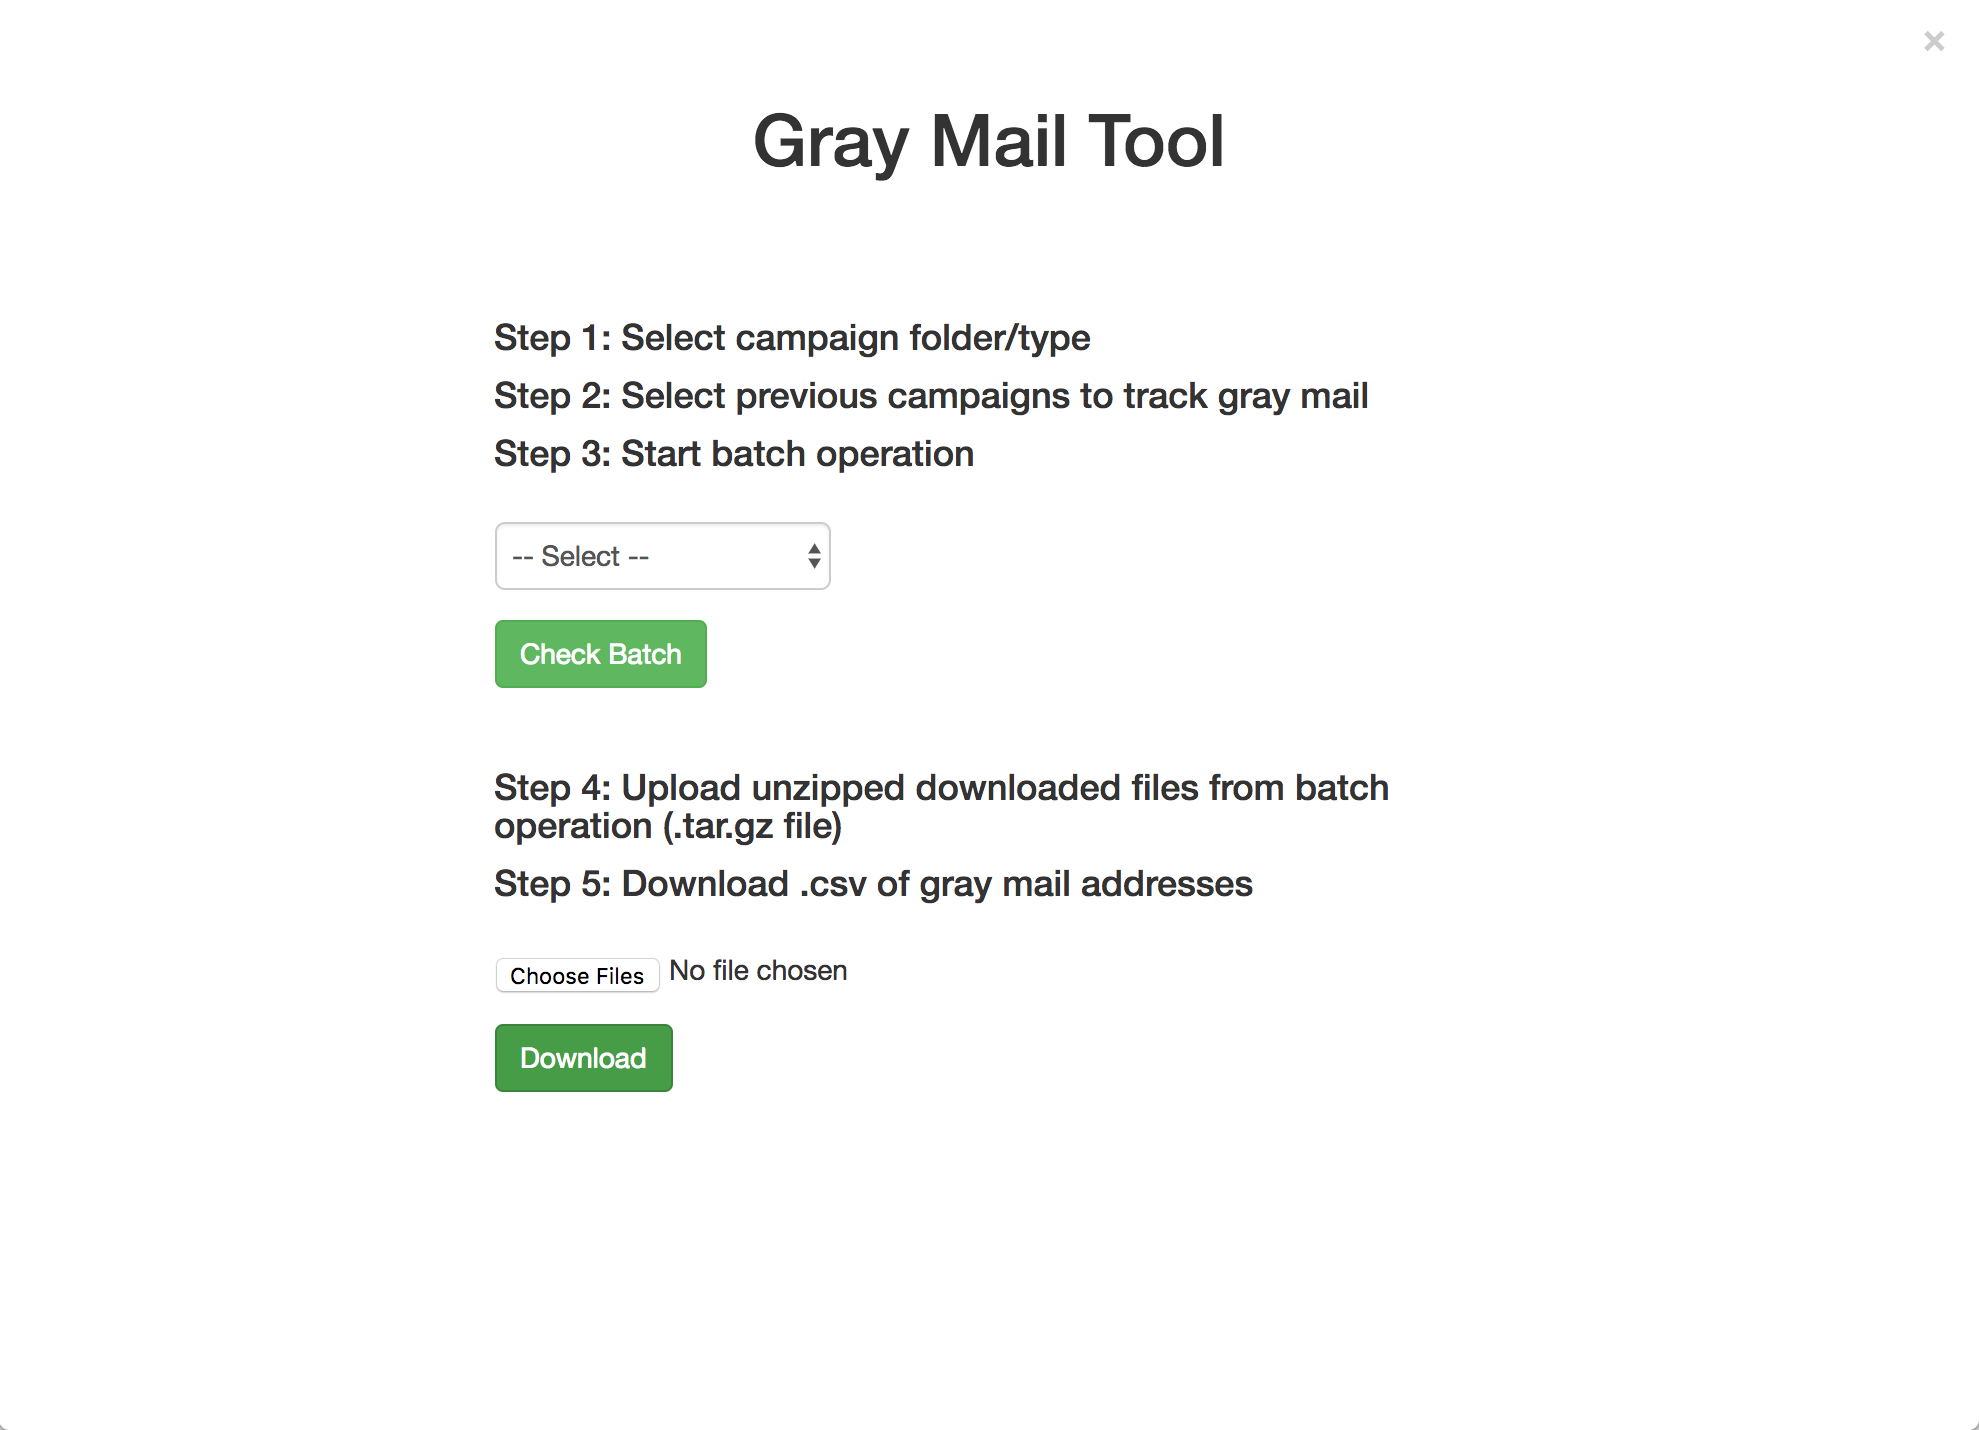
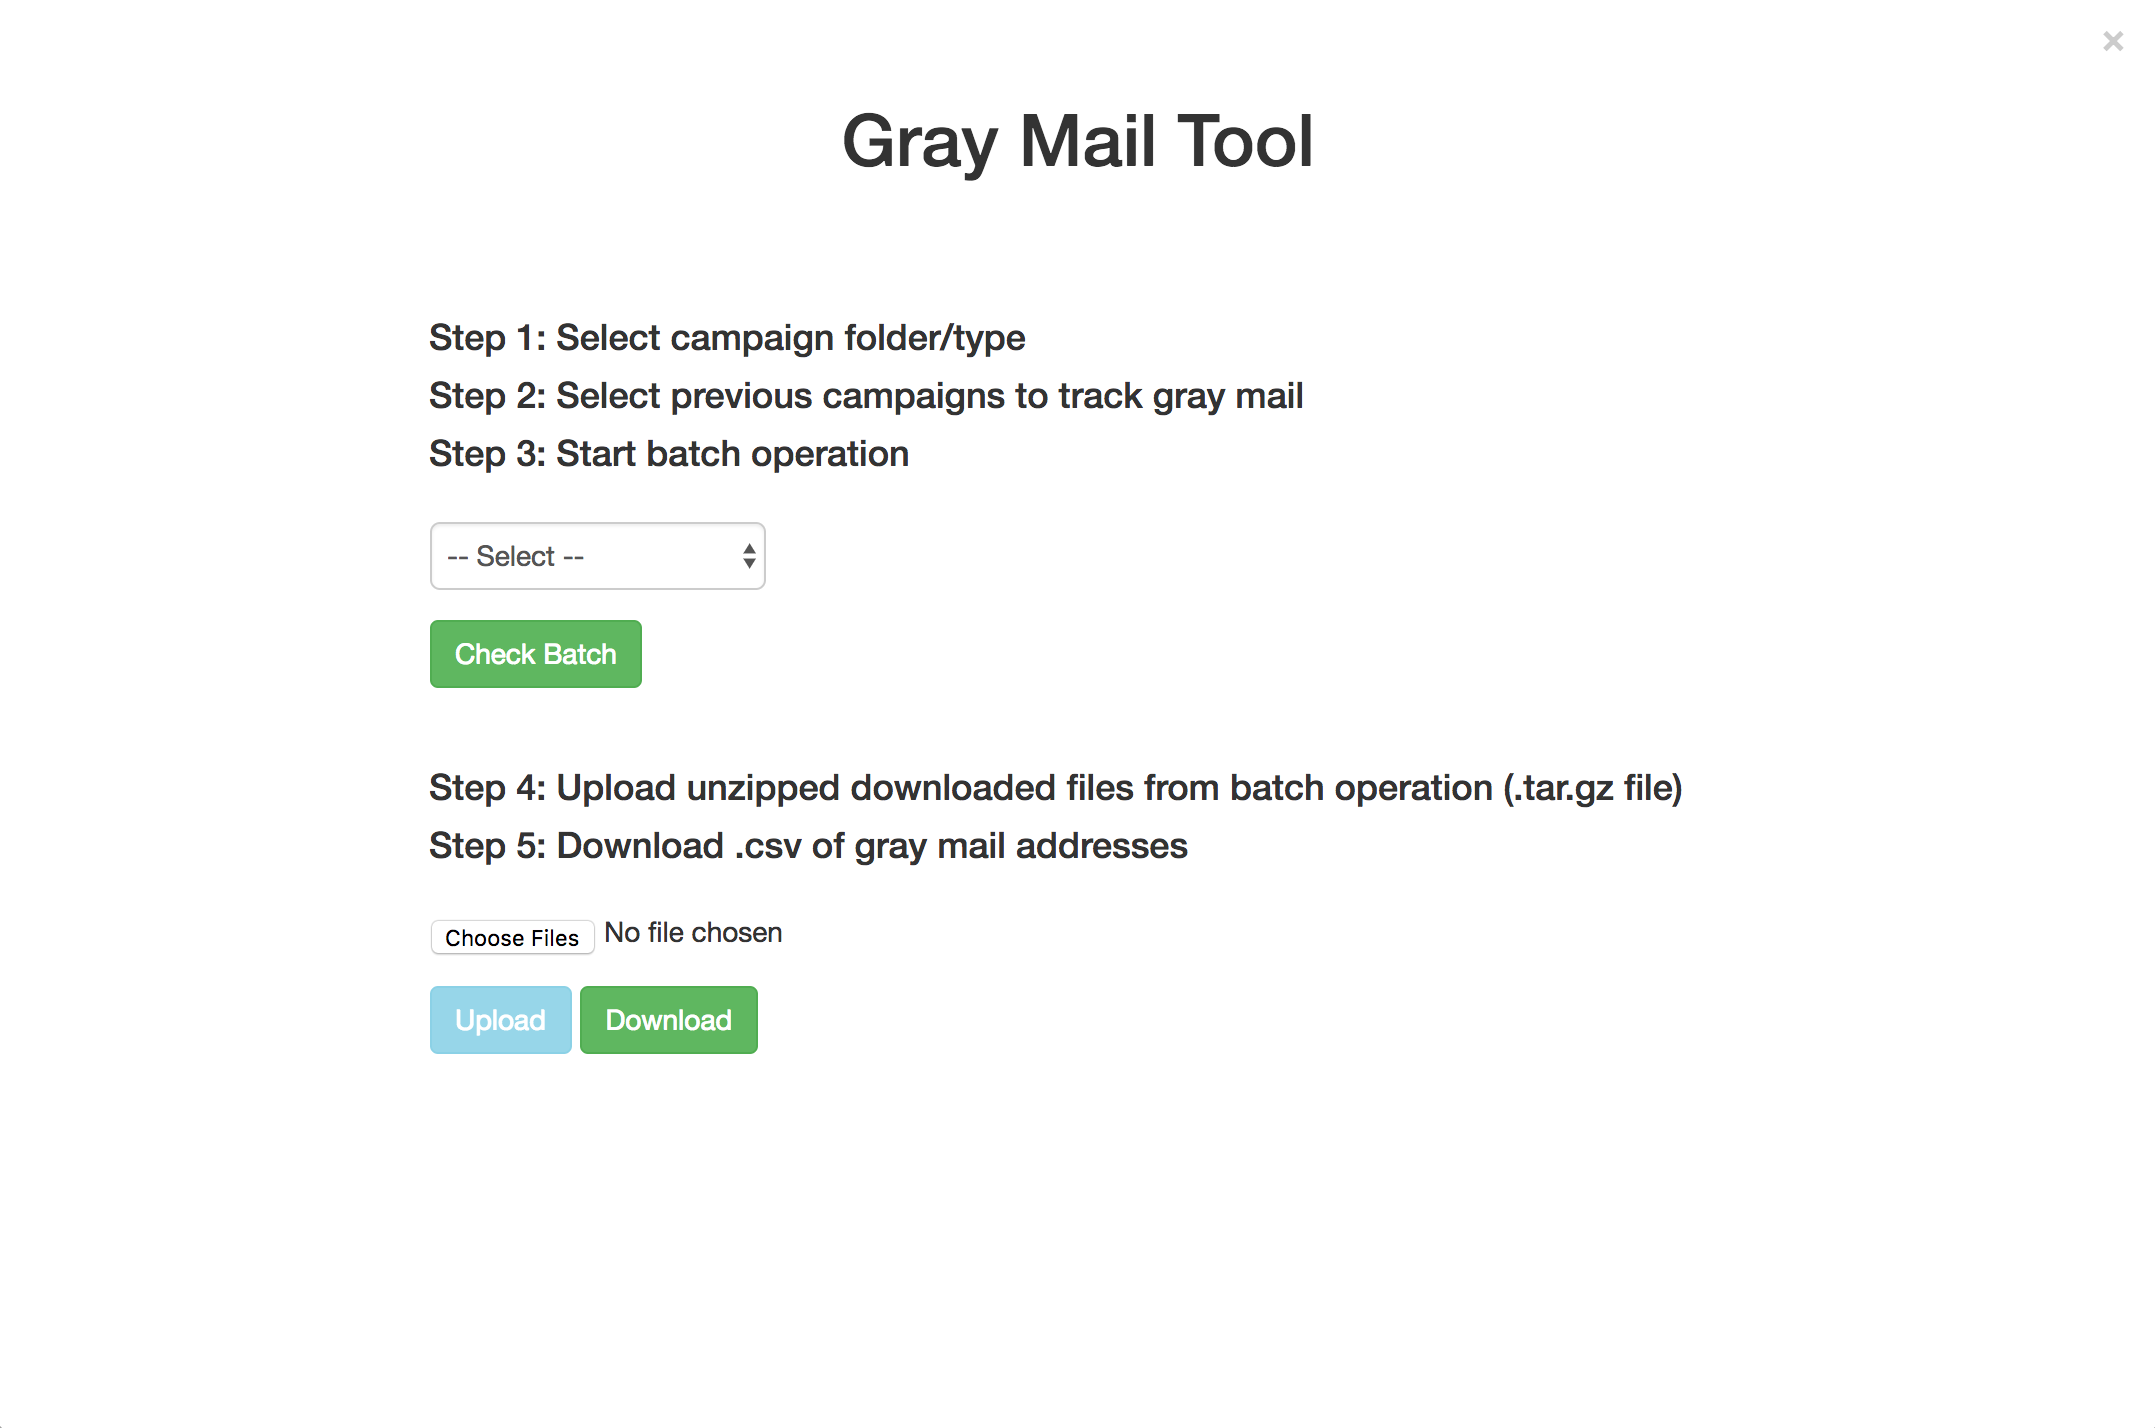
Edit README.md file and add step 5 screenshot

diff --git a/README.md b/README.md
@@ -113,11 +113,17 @@ On your machine unzip the .tar.gz file and rename the folder to something you ca
 
 #### Step 5
 
-Once the **Upload** button is selected, the files will be processed and the **Upload** button will change into a green **Download** button. Click on this to download a dated .csv file containing all gray mail addresses for the selected campaign type.
+Once the **Upload** button is selected, the files will be processed and a **Download** button will appear to the right of the **Upload**. Click on this to download a dated .csv file containing all gray mail addresses for the selected campaign type.
 
 ![image](./screenshots/GMT_Step5.png)
 
 *Note: Once files have been uploaded, downloading the .csv file is required before uploading again (as indicated by the green download button persisting).*
+
+_**Important Note**: The optimal way to refresh the gray mail tool is by clicking and selecting its URL in the URL bar and hitting 'Enter'._
+
+#### Step 6
+
+Once the .csv files are created for each campaign type, the gray emails can be removed from their respective MailChimp groups by following [MailChimp's documentation on removing multiple subscribers from groups][mc-remove-subscribers]. Prior to this, it is wise to save these emails first in a gray mail spreadsheet created on a shared Google Drive folder that exists at the time of writing this.
 
 ## Built With
 * PHP
@@ -148,6 +154,7 @@ This project is licensed under the MIT License - see the [LICENSE.md](LICENSE.md
 [mc-api]: https://kb.mailchimp.com/integrations/api-integrations/about-api-keys
 [mc-export]: https://kb.mailchimp.com/lists/manage-contacts/view-or-export-a-list
 [mc-playground]: https://us1.api.mailchimp.com/playground/
+[mc-remove-subscribers]: https://kb.mailchimp.com/lists/manage-contacts/remove-subscribers-from-groups
 
 <!-- ## Config files
 
